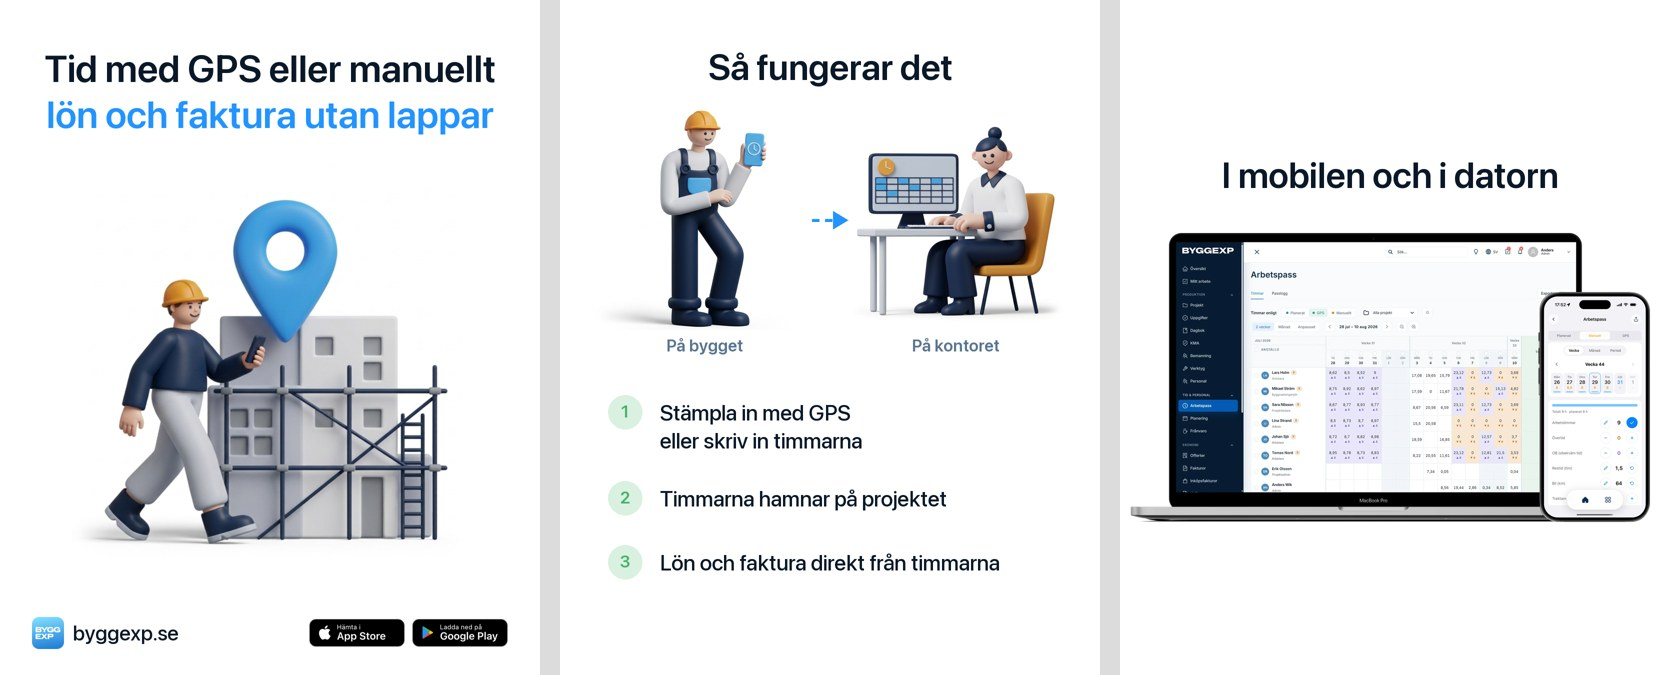
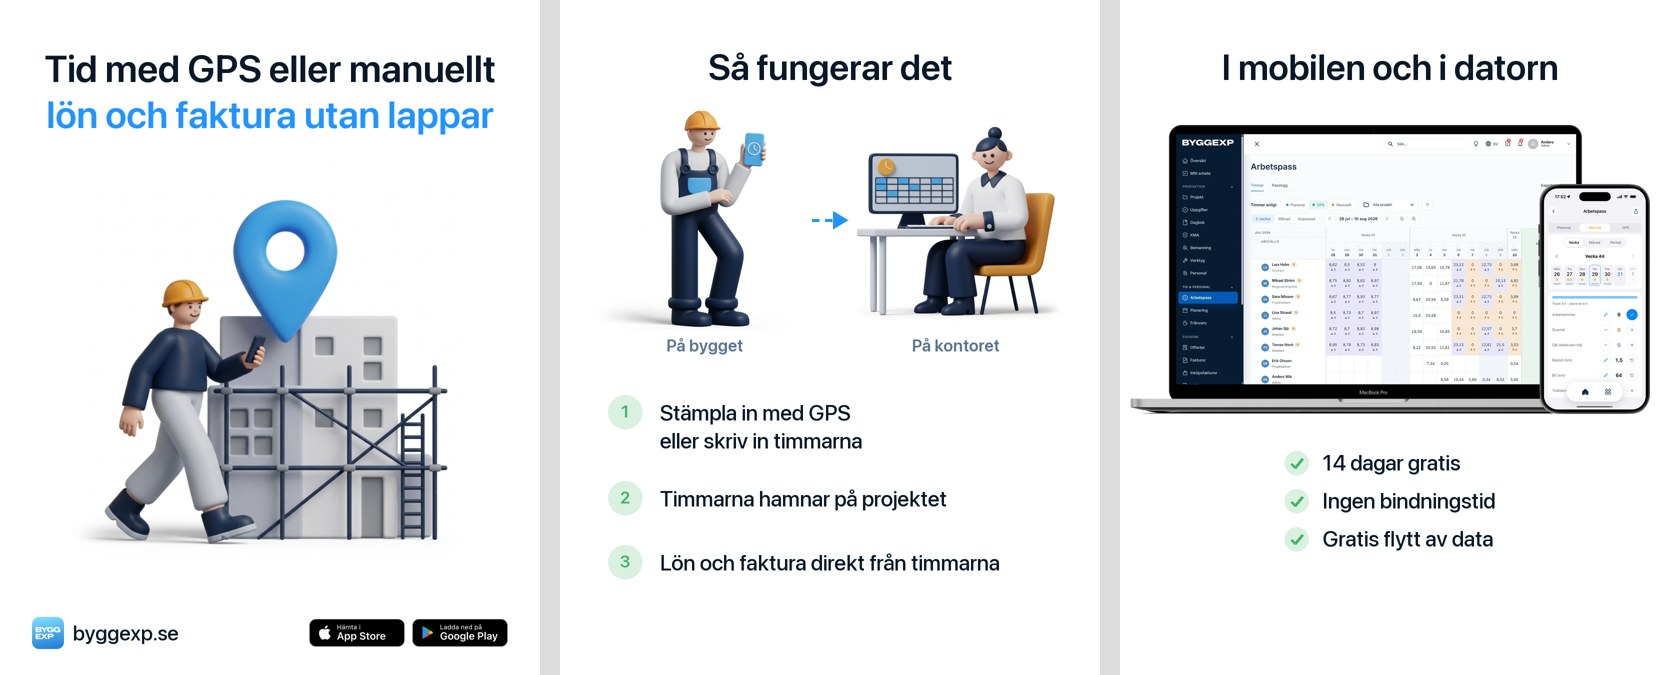
feat(smm): headlines level on all slides, site promises under the laptop
Claude-Session: https://claude.ai/code/session_015ffAXEftTHPL4eNP1AivUn

Changed region(s): [[0.6759, 0.1867, 1.0, 0.8089], [0.7373, 0.0622, 0.9524, 0.1244]]

diff --git a/design-assets/social/posts/make_3d.py b/design-assets/social/posts/make_3d.py
@@ -254,10 +254,27 @@ def slide_feature(spec, caption):
     im = im.crop(im.getbbox())
     w = W - 40
     im = im.resize((w, round(im.height * w / im.width)), Image.LANCZOS)
-    top = (H - (90 + 70 + im.height)) // 2
-    d.text(((W - d.textlength(caption, font=font(72))) / 2, top), caption, font=font(72), fill=NAVY)
-    f.alpha_composite(im, (20, top + 160))
+    # Headline at the same height as on the other slides; under the picture the site's hero promises.
+    d.text(((W - d.textlength(caption, font=font(72))) / 2, TOP), caption, font=font(72), fill=NAVY)
+    y = 250
+    f.alpha_composite(im, (20, y))
+    checks(d, y + im.height + 70)
     return f, d
+
+
+MEETS = ("14 dagar gratis", "Ingen bindningstid", "Gratis flytt av data")  # src/locales/heroV2.ts meta
+
+
+def checks(d, y):
+    ft = font(44, "Medium")
+    w = max(d.textlength(t, font=ft) for t in MEETS) + 76
+    x = (W - w) / 2
+    for i, t in enumerate(MEETS):
+        yy = y + i * 76
+        d.ellipse((x, yy + 4, x + 48, yy + 52), fill=(218, 240, 225))
+        d.line((x + 13, yy + 29, x + 21, yy + 37), fill=(69, 179, 107), width=6)
+        d.line((x + 21, yy + 37, x + 36, yy + 19), fill=(69, 179, 107), width=6)
+        d.text((x + 76, yy), t, font=ft, fill=NAVY)
 
 
 def carousel(pid):

diff --git a/design-assets/social/DESIGN-SYSTEM-SMM.md b/design-assets/social/DESIGN-SYSTEM-SMM.md
@@ -76,7 +76,7 @@
 
 **S26 · 2026-10-31 · Посты о функциях: под 3D — «как это работает», без цены.** Под 3D-картинкой 3 коротких шага (зелёные шарики 1-2-3, как в презентациях функций): что делает человек → что делает система → что получаешь. Человек, который видит функцию впервые, понимает логику. Цены на картинке нет, в тексте поста тоже нет (только «14 dagar gratis, ingen bindningstid»). Шаг — 1–2 строки, перенос сбалансированный, без одиночного слова. Отменяет S17/S18 для постов о функциях; цена остаётся на обложках и закрепе. Код: `posts/make_3d.py` (`steps`, `wrap`). Почему: владелец: «не надо везде цены ставить, расскажи подробнее про функцию, какая логика».
 
-**S27 · 2026-10-31 · Пост о функции = карусель из 3 картинок.** 1) 3D + заголовок-выгода (подпись byggexp.se + значки сторов — только здесь); 2) «Så fungerar det» — сверху связь «På bygget → På kontoret»: 3D рабочего с телефоном, синяя пунктирная стрелка, 3D женщины за компьютером (видно: человек ввёл — в компьютере уже есть); ниже 3 шага, длинный шаг переносится, не вылезает за край (`FLOW` в make_3d.py); 3) «Så ser det ut i appen» — настоящий экран в настоящем iPhone из презентаций (`byggexp-admin/docs/presentations/design-system/assets/screens/foto-phone.png`, титановая рамка, кнопки, Dynamic Island), не нарисованная рамка. 3-я картинка (если у функции есть картинка на сайте) — «I mobilen och i datorn»: ноутбук с сайта (`public/landing/features/<n>.webp`), а старый телефон на ней закрыт нашим настоящим iPhone с текущим экраном (часы — неделя, вкладка Manuell); заголовок и картинка по центру одной группой. Отдельный слайд с телефонами тогда не нужен (владелец: «либо третий, либо четвёртый»). Серия идёт по блоку «Så fungerar det» на главной (11 карточек, их названия и шаги); сначала утверждаем один пост, остальные — строго по нему. Заголовки на всех слайдах выше (y 90). Фон всех 3 картинок белый, без светло-голубого. Скриншот — свежий из симулятора, во весь экран, без пустого низа, и показывает все поля, которые человек заполняет (часы, övertid, OB, restid, bil, traktamente, фото, kvitton), а не обрезанный кусок. Экран всегда с верха: вкладки и неделя видны, низ может обрезаться (владелец: «пускай верхняя часть видна»). Если у функции два способа — оба: тидрапорт = «GPS eller manuellt» в заголовке и шагах, на 3-й картинке два телефона с подписями «GPS» / «Manuellt». Код: `posts/make_3d.py` (`carousel`, `SHOTS`, скрины в `~/Desktop/SMM/app-shots/`). Почему: владелец: «одним постом 2–3 картинки», «заголовок выше», «телефон реальный», «подпись только на 1-й», «у нас не только GPS — мануальный ввод обязательно», «больше полей, где человек часы вводит».
+**S27 · 2026-10-31 · Пост о функции = карусель из 3 картинок.** 1) 3D + заголовок-выгода (подпись byggexp.se + значки сторов — только здесь); 2) «Så fungerar det» — сверху связь «På bygget → På kontoret»: 3D рабочего с телефоном, синяя пунктирная стрелка, 3D женщины за компьютером (видно: человек ввёл — в компьютере уже есть); ниже 3 шага, длинный шаг переносится, не вылезает за край (`FLOW` в make_3d.py); 3) «Så ser det ut i appen» — настоящий экран в настоящем iPhone из презентаций (`byggexp-admin/docs/presentations/design-system/assets/screens/foto-phone.png`, титановая рамка, кнопки, Dynamic Island), не нарисованная рамка. 3-я картинка (если у функции есть картинка на сайте) — «I mobilen och i datorn»: ноутбук с сайта (`public/landing/features/<n>.webp`), а старый телефон на ней закрыт нашим настоящим iPhone с текущим экраном (часы — неделя, вкладка Manuell); заголовок на той же высоте, что на всех слайдах (y 90, владелец: «заголовки не на ровных местах»), под картинкой — 3 зелёные галочки из шапки сайта: «14 dagar gratis · Ingen bindningstid · Gratis flytt av data». Отзывов нет — не выдумываем. Отдельный слайд с телефонами тогда не нужен (владелец: «либо третий, либо четвёртый»). Серия идёт по блоку «Så fungerar det» на главной (11 карточек, их названия и шаги); сначала утверждаем один пост, остальные — строго по нему. Заголовки на всех слайдах выше (y 90). Фон всех 3 картинок белый, без светло-голубого. Скриншот — свежий из симулятора, во весь экран, без пустого низа, и показывает все поля, которые человек заполняет (часы, övertid, OB, restid, bil, traktamente, фото, kvitton), а не обрезанный кусок. Экран всегда с верха: вкладки и неделя видны, низ может обрезаться (владелец: «пускай верхняя часть видна»). Если у функции два способа — оба: тидрапорт = «GPS eller manuellt» в заголовке и шагах, на 3-й картинке два телефона с подписями «GPS» / «Manuellt». Код: `posts/make_3d.py` (`carousel`, `SHOTS`, скрины в `~/Desktop/SMM/app-shots/`). Почему: владелец: «одним постом 2–3 картинки», «заголовок выше», «телефон реальный», «подпись только на 1-й», «у нас не только GPS — мануальный ввод обязательно», «больше полей, где человек часы вводит».
 
 **S28 · 2026-10-31 · Шрифт картинок = то, что реально видно на сайте: SF Pro.** Сайт в CSS пишет `"DM Sans", -apple-system…`, но DM Sans нигде не подгружает (нет @font-face / Google Fonts), поэтому посетитель видит системный SF Pro. В картинках — `/System/Library/Fonts/SFNS.ttf` (вариативный): заголовки 600, шаги 500, текст 400; крупный текст — оптический размер Display. DM Sans в картинках не использовать. Сайт не трогаем (сделан по Figma, эталон): материалы подстраиваются под сайт, а не наоборот. Код: `font()` в `posts/make_3d.py`. Почему: владелец: «шрифты точно с сайта?» — были не с сайта.
 
